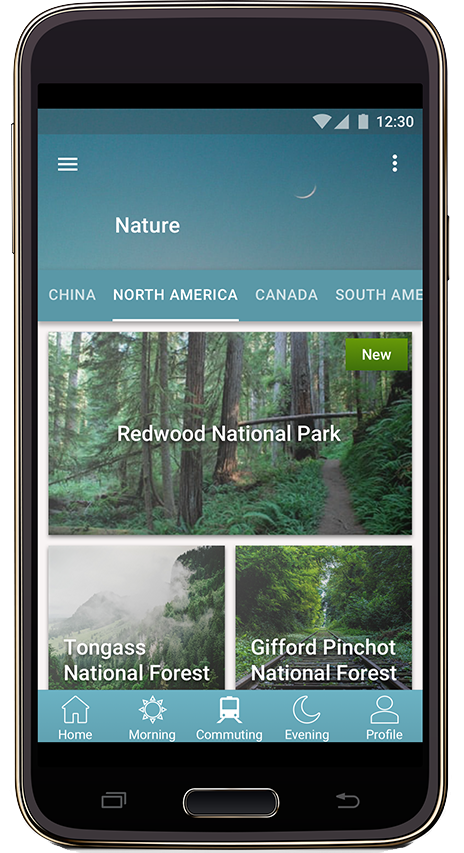
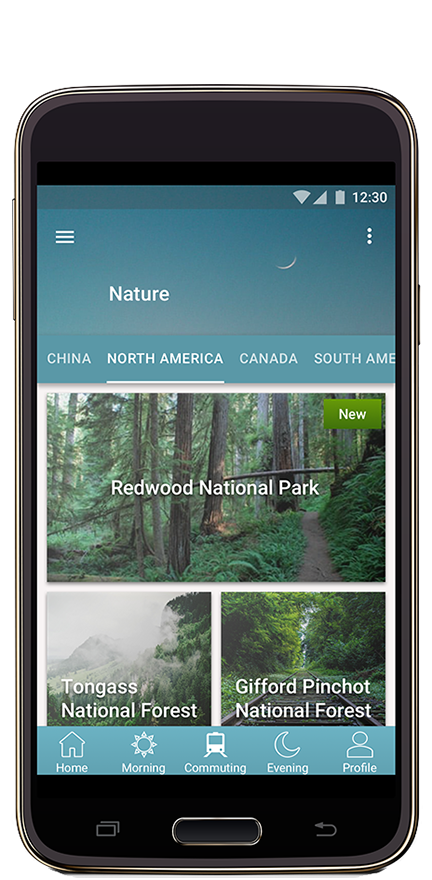
fixing samsung mockup image

diff --git a/portfolio/oneday.html b/portfolio/oneday.html
@@ -188,7 +188,7 @@ methods and techniques.
 	     <img src="../assets/images/stretching_handset_new.png" style="background-color:#FFF;" class="img-responsive" alt="Stretching_Image">
 	      </div>
 	       <div class="col-xs-6 col-sm-6 col-md-3 table-top-padding image-padding">
-	      <img src="../assets/images/samsung_cropped_small.png" style="background-color:#FFF;" class="img-responsive" alt="Forest_Handset">
+	      <img src="../assets/images/samsung_cropped_small_edit.png" style="background-color:#FFF;" class="img-responsive" alt="Forest_Handset">
 	      </div>
 	      
         </div><!-- close row -->

diff --git a/assets/css/style.css b/assets/css/style.css
@@ -390,7 +390,9 @@ section {
     }
     
    
-    
+    .samsung-padding {
+        padding-top:50px;
+    }
     
     .table-padding {
         padding-bottom: 20px;
